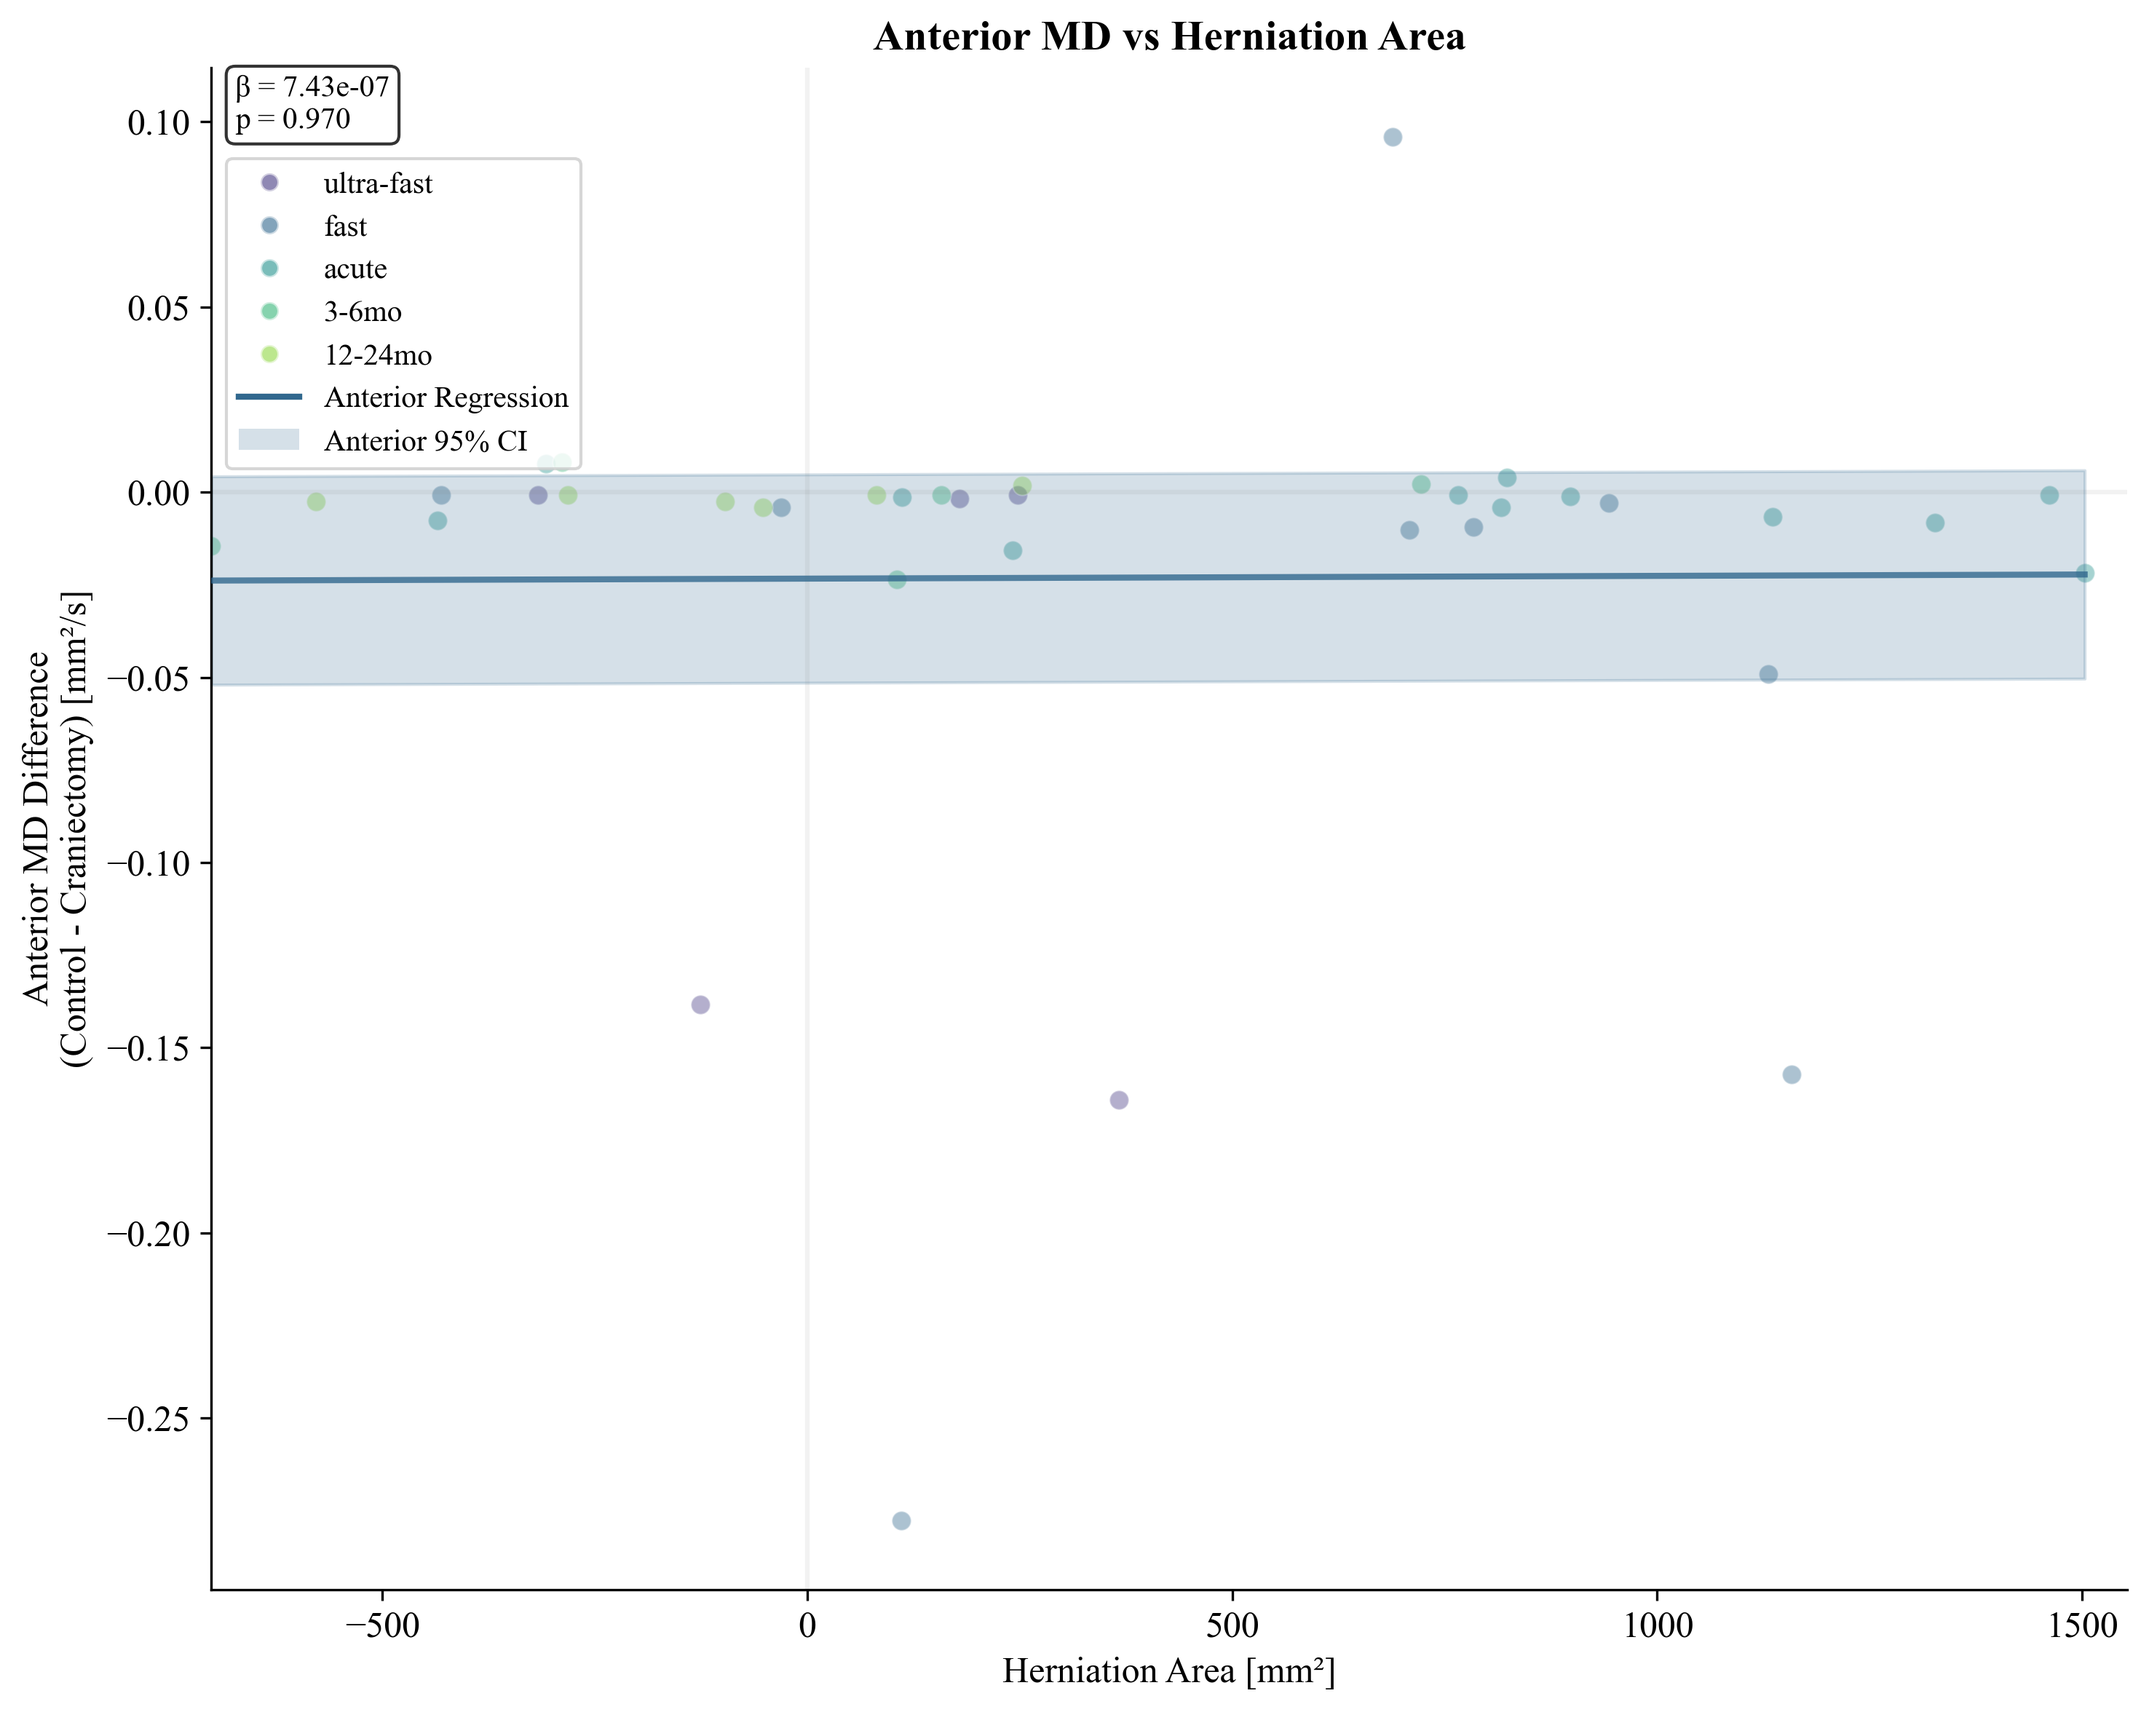
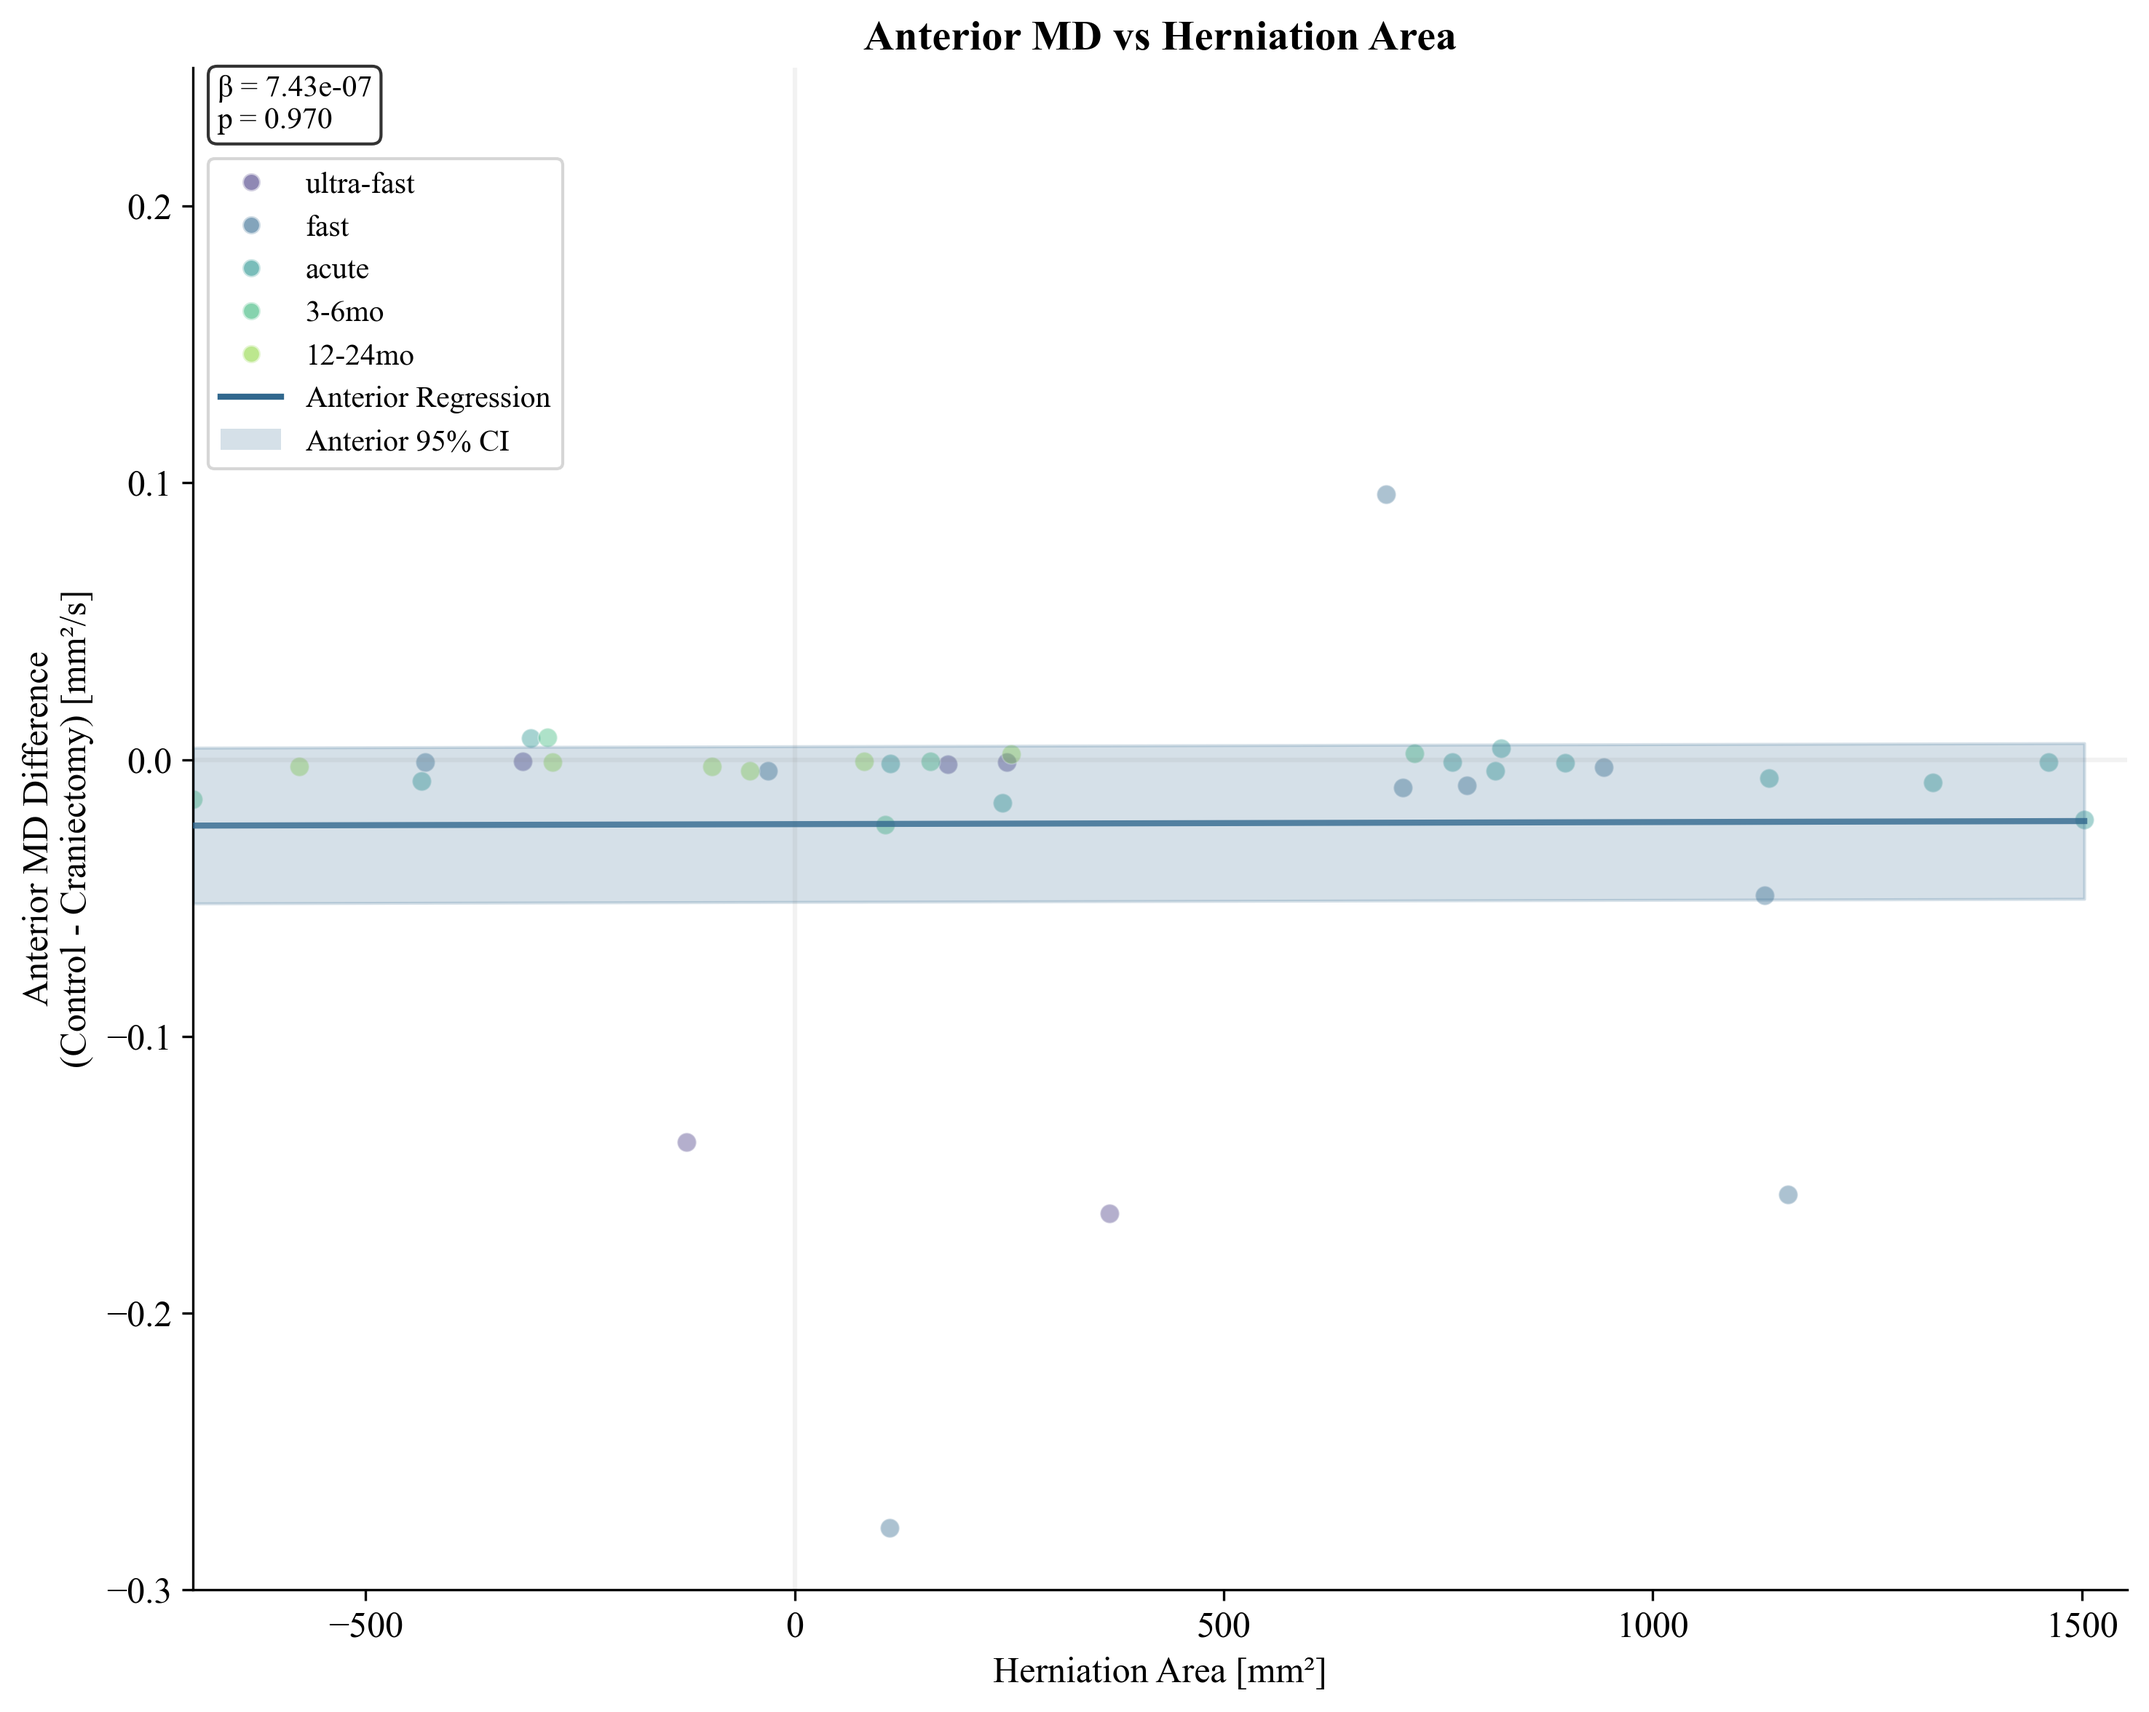
update y lim for area predict md plots

diff --git a/DTI_Processing_Scripts/dti_results_plotting_main.py b/DTI_Processing_Scripts/dti_results_plotting_main.py
@@ -1299,6 +1299,7 @@ def create_area_predicts_md_plot(df, result4, result5, show_combined=True, timep
         ax.axhline(y=0, color='gray', linestyle='-', alpha=0.1)
         ax.axvline(x=0, color='gray', linestyle='-', alpha=0.1)
         ax.set_xlim(df['area_diff'].min(), df['area_diff'].max() + 50)
+        ax.set_ylim(-0.3, 0.25)
 
         # Create legend for timepoints and regression lines
         from matplotlib.lines import Line2D
@@ -1369,6 +1370,7 @@ def create_area_predicts_md_plot(df, result4, result5, show_combined=True, timep
         ax1.axhline(y=0, color='gray', linestyle='-', alpha=0.1)
         ax1.axvline(x=0, color='gray', linestyle='-', alpha=0.1)
         ax1.set_xlim(df['area_diff'].min(), df['area_diff'].max() + 50)
+        ax1.set_ylim(-0.3, 0.25)
         
         # Create legend for timepoints and regression line
         from matplotlib.lines import Line2D
@@ -1435,6 +1437,7 @@ def create_area_predicts_md_plot(df, result4, result5, show_combined=True, timep
         ax2.axhline(y=0, color='gray', linestyle='-', alpha=0.1)
         ax2.axvline(x=0, color='gray', linestyle='-', alpha=0.1)
         ax2.set_xlim(df['area_diff'].min(), df['area_diff'].max() + 50)
+        ax2.set_ylim(-0.3, 0.25)
         
         # Create legend for timepoints and regression line
         legend_elements = [
